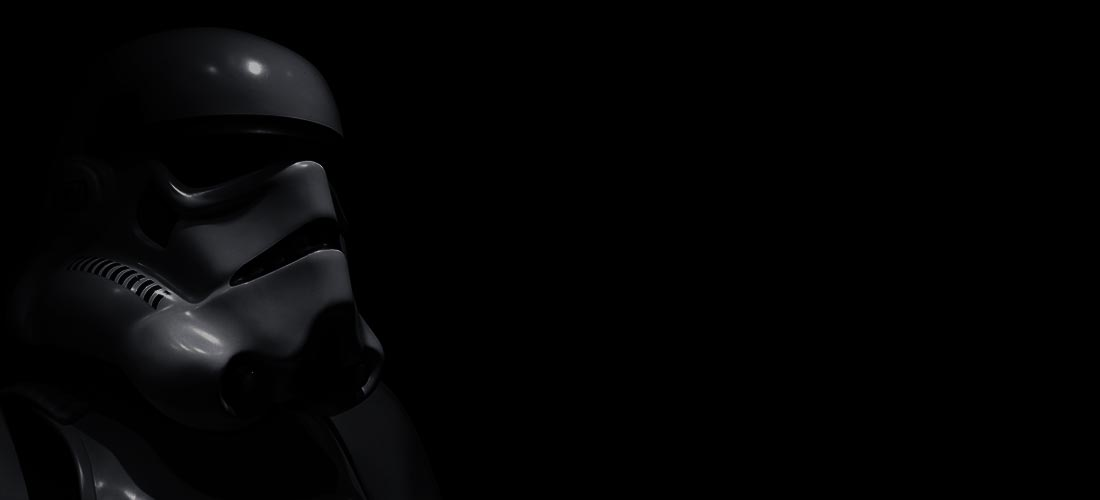
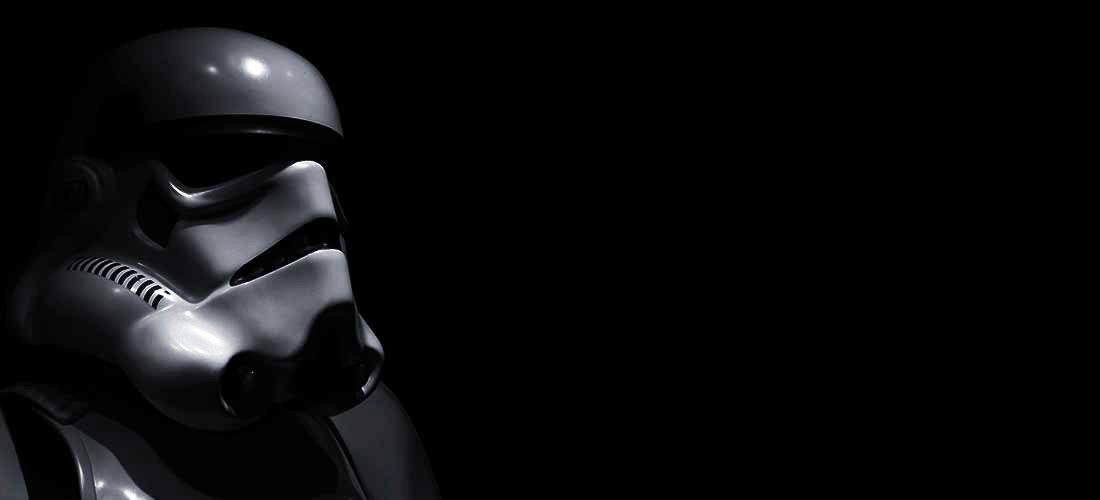
dark skin

diff --git a/src/scss/skin.scss b/src/scss/skin.scss
@@ -84,7 +84,7 @@ $font-title: $font-anton;
 //End of Default HBC Theme
 */
 
-
+/*
 //Easter Pink Theme
     $default-color: #dd358a;//easter pink
     $global-page-bg-color: white;
@@ -159,7 +159,7 @@ $font-title: $font-anton;
     $footer-real-bg-color: $nav-bar-color;
     $footer-real-text-color: #ededed;
 //Easter Pink Theme
-
+*/
 
 /*
 //Light Mode Theme
@@ -239,7 +239,7 @@ $font-title: $font-anton;
 */
 
 
-/*
+
 //Dark Mode Theme
     $global-page-bg-color: #1b1b1b;
     $default-color: #101010;
@@ -314,7 +314,7 @@ $font-title: $font-anton;
     $footer-real-bg-color: #0d0d0d;
     $footer-real-text-color: white;
 //Dark Mode Theme END
-*/
+
 
 
 /****** Default Overwrites ********/

diff --git a/src/scss/_custom.scss b/src/scss/_custom.scss
@@ -342,8 +342,8 @@ ul.simple-horizontal-list {
     //background: $homepage-hero-gradient;
     background-image: $homepage-hero-bg-img;
     background-repeat: no-repeat;
-    background-position: center top;
-    background-size: 100% auto;
+    //background-position: center top;
+    //background-size: 100% auto;
 
     min-height: 500px;
     text-align: center;
